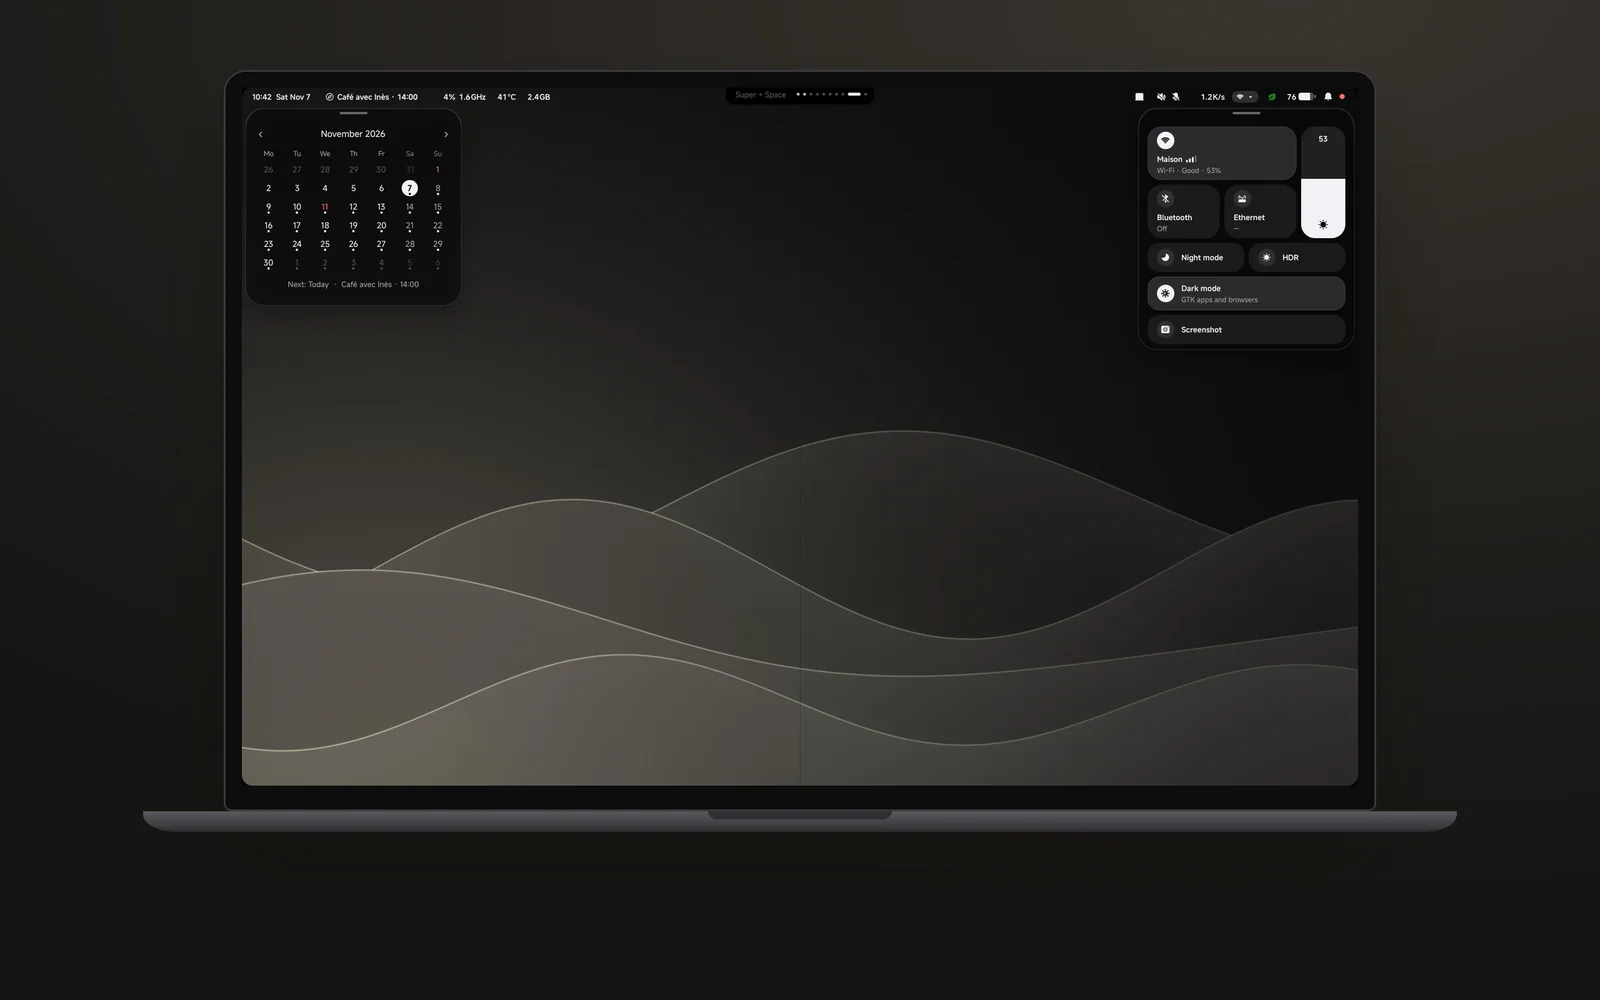
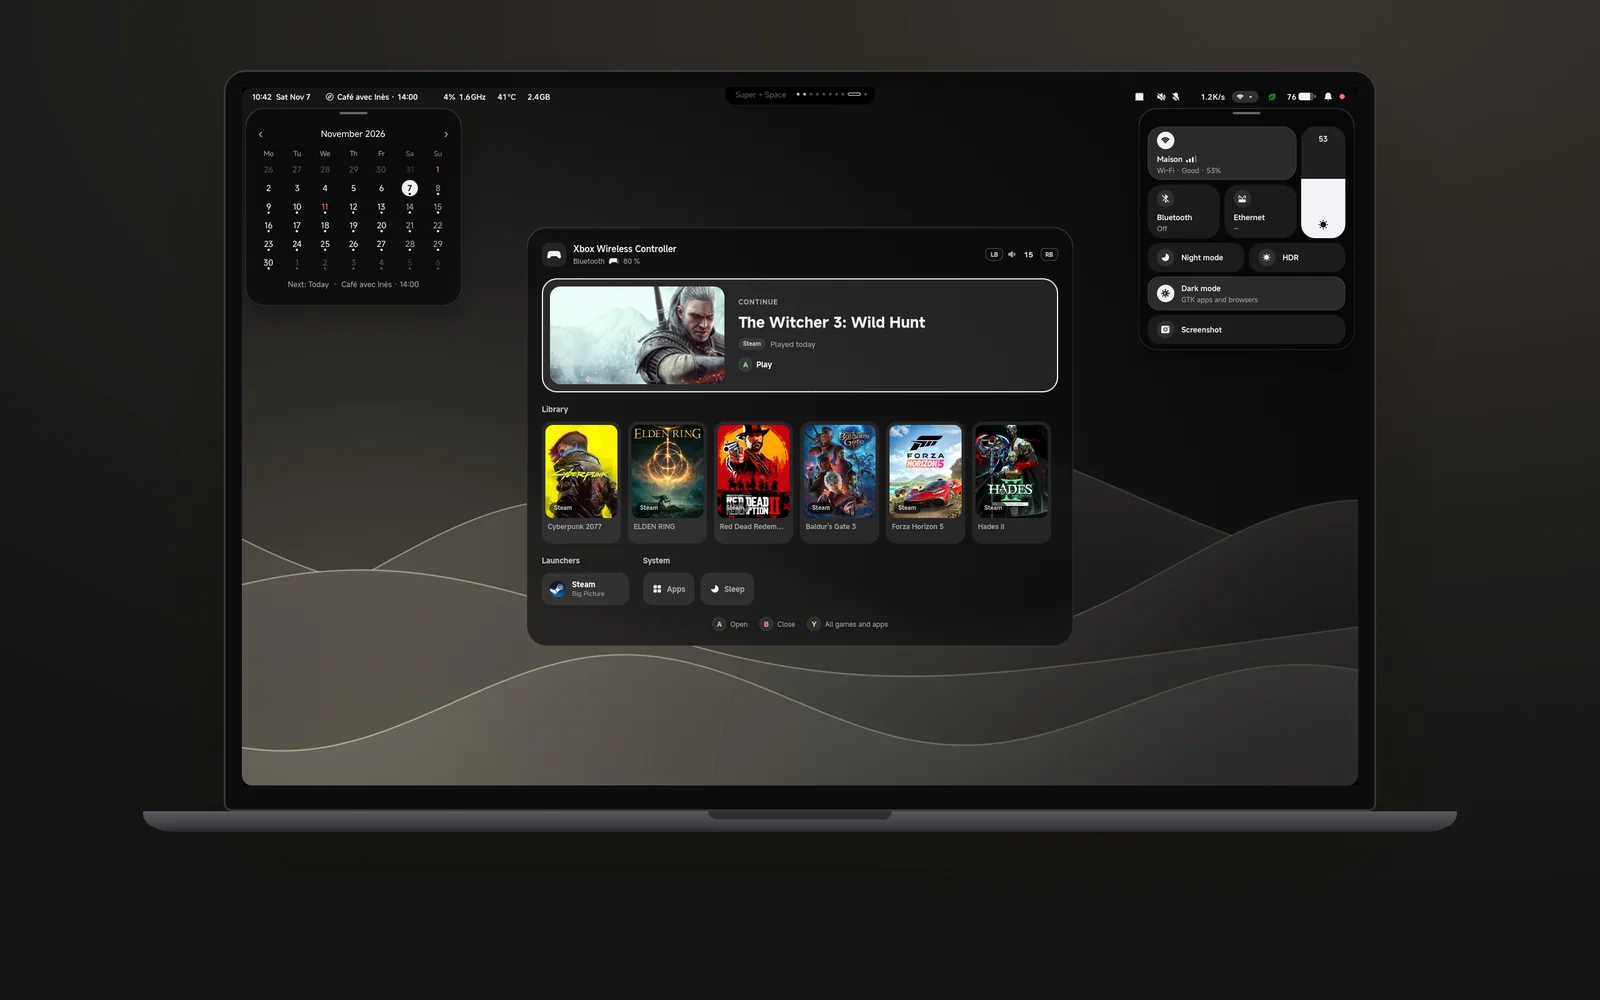
Pellicule : the showcase cut slants, the controller menu in the middle
A showcase's `middle` scenes are laid in on both sides, each in that
side's mode, so the slanted cut runs through them; `blank` keeps only
what they add to the empty desktop.

Changed region(s): [[0.3125, 0.248, 0.6875, 0.651], [0.625, 0.248, 0.6562, 0.279]]

diff --git a/docs/screenshots/showcase.html b/docs/screenshots/showcase.html
@@ -2,7 +2,7 @@
 <!--
   The showcase picture, put together by scripts/pellicule from two
   full-screen captures: a laptop whose screen, and the backdrop behind it,
-  are cut down the middle. ?l=FILE&r=FILE are the two halves, ?lm and ?rm
+  are cut along one slanted line. ?l=FILE&r=FILE are the two halves, ?lm and ?rm
   their modes (light or dark). Rendered by Firefox at 2560x1600.
 -->
 <html>
@@ -14,8 +14,6 @@
   .half { position: absolute; inset: 0; }
   .light { background: radial-gradient(120% 90% at 20% 0%, #f7f2ea 0%, #e8dfd1 55%, #d9cdbb 100%); }
   .dark { background: radial-gradient(120% 90% at 80% 0%, #3a352f 0%, #22201d 55%, #161513 100%); }
-  .left { clip-path: polygon(0 0, 50% 0, 50% 100%, 0 100%); }
-  .right { clip-path: polygon(50% 0, 100% 0, 100% 100%, 50% 100%); }
 
   .laptop { position: absolute; left: 14%; top: 7%; width: 72%; }
   .lid { background: #0d0d0e; border-radius: 1.4cqw 1.4cqw .5cqw .5cqw; padding: 1.1cqw 1.1cqw 1.6cqw;
@@ -49,6 +47,27 @@
   document.getElementById("br").classList.add(rm);
   document.getElementById("il").src = q.get("l");
   document.getElementById("ir").src = q.get("r");
+  // The cut: one line through the screen's centre, leaning by SLANT of
+  // the screen's width from top to bottom, carried on across the backdrop.
+  const SLANT = 0.16;
+  function cut() {
+    const W = innerWidth, H = innerHeight;
+    const r = document.querySelector(".screen").getBoundingClientRect();
+    const cx = r.left + r.width / 2, cy = r.top + r.height / 2;
+    const k = SLANT * r.width / r.height;          // x shift per pixel down
+    const xAt = (y) => cx + k * (cy - y);          // top leans right
+    const poly = (x0, x1, w, h, side) => side === "l"
+      ? `polygon(0 0, ${x0}px 0, ${x1}px ${h}px, 0 ${h}px)`
+      : `polygon(${x0}px 0, ${w}px 0, ${w}px ${h}px, ${x1}px ${h}px)`;
+    document.getElementById("bl").style.clipPath = poly(xAt(0), xAt(H), W, H, "l");
+    document.getElementById("br").style.clipPath = poly(xAt(0), xAt(H), W, H, "r");
+    // In the screen's own coordinates.
+    const sx0 = xAt(r.top) - r.left, sx1 = xAt(r.bottom) - r.left;
+    document.getElementById("il").style.clipPath = poly(sx0, sx1, r.width, r.height, "l");
+    document.getElementById("ir").style.clipPath = poly(sx0, sx1, r.width, r.height, "r");
+  }
+  cut();
+
   // One mode on both sides: the base matches it. Mixed: the aluminium one.
   if (lm === "dark" && rm === "dark") document.getElementById("base").classList.add("dark");
 </script>
